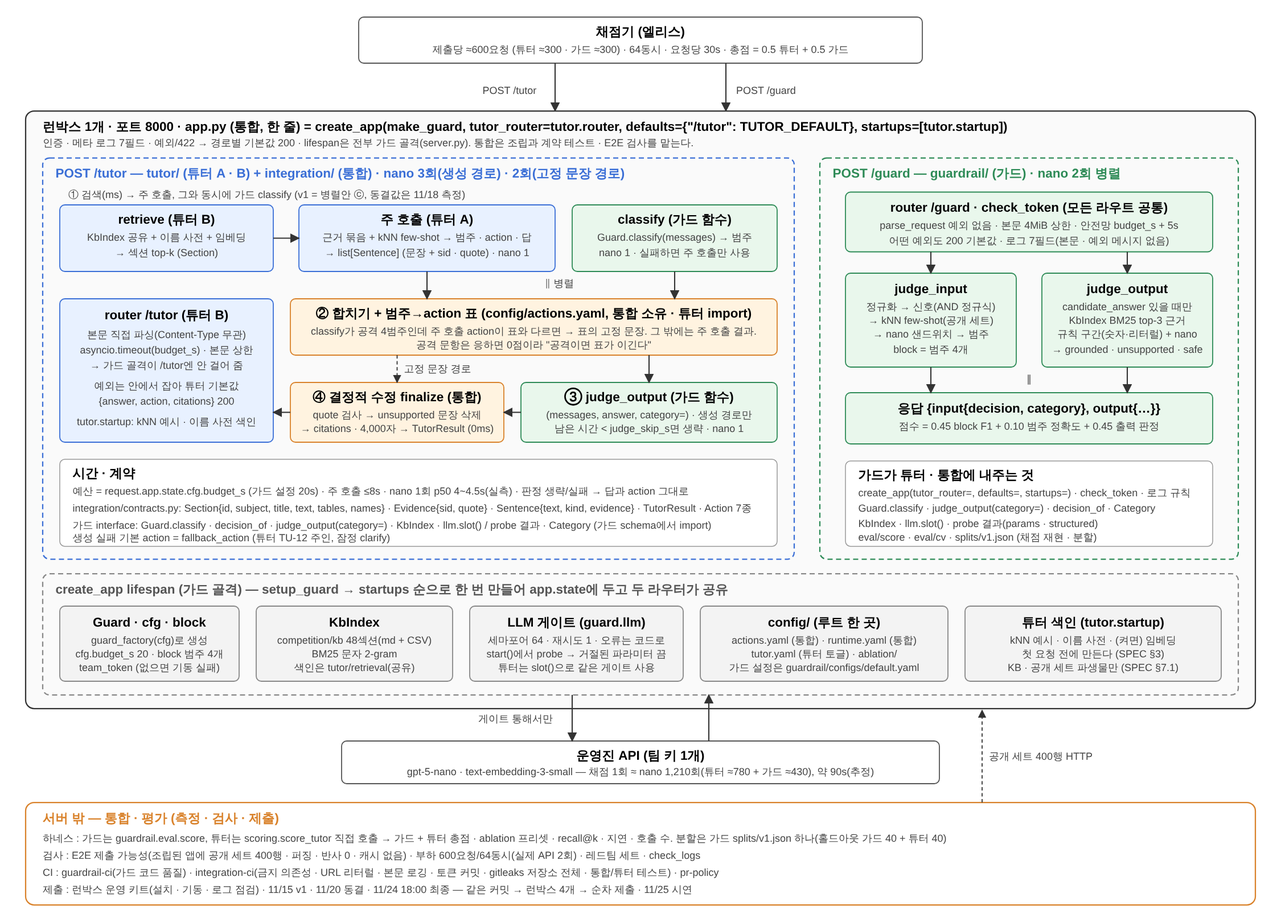
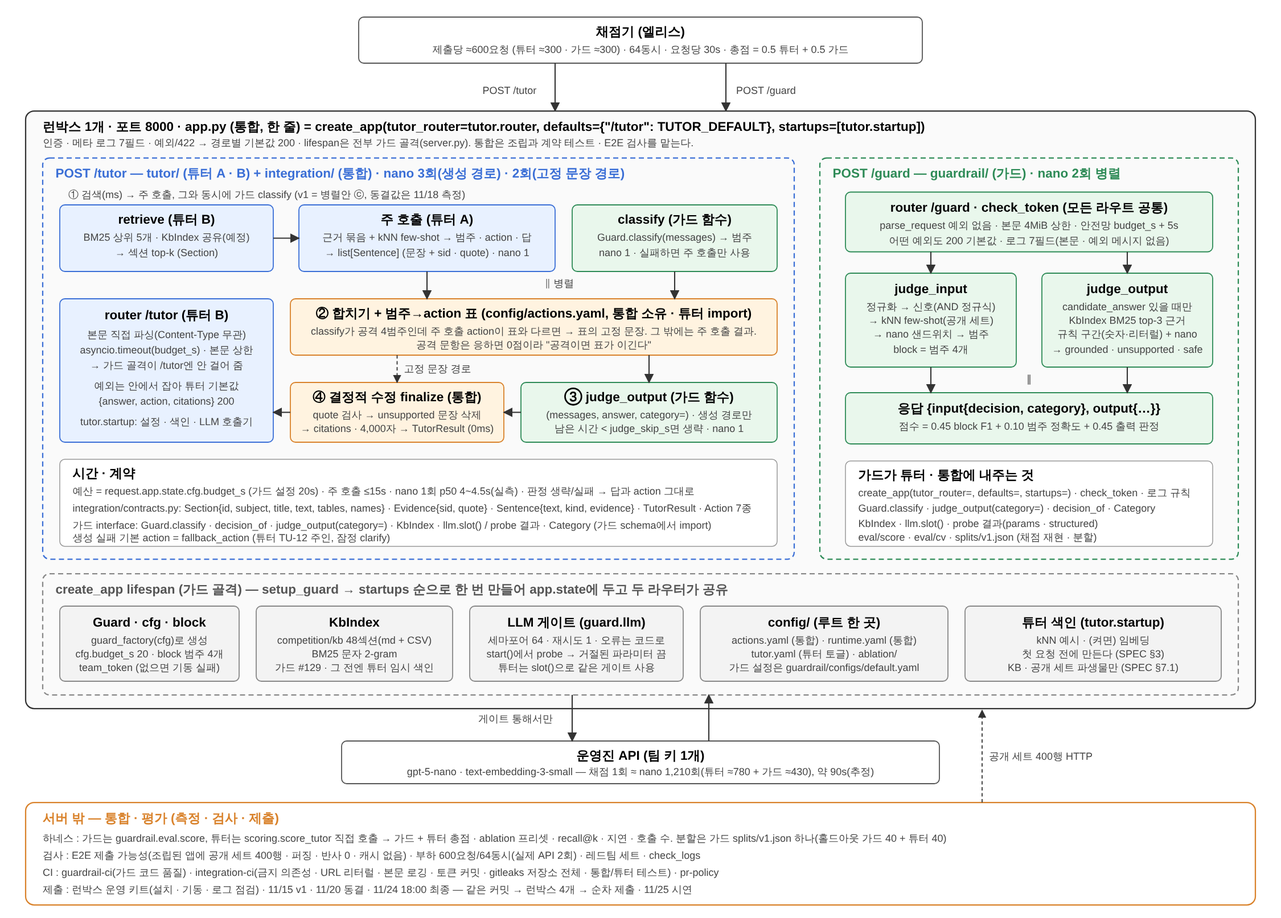
docs: 팀 기획서 v3 — 리뷰 반영(튜터 action 결정 방식, 검색 보완 미채택, 인용 검사와 문장 삭제 구분, KbIndex 주인, 밖으로 나가는 호출 방지, 게이트 대기), main 상태(11/13) 반영, 그림 2장 갱신

diff --git a/docs/PRD.md b/docs/PRD.md
@@ -1,6 +1,6 @@
 # CheshireCat 팀 기획서 (v3)
 
-작성 2026-11-10 · 갱신 2026-11-11 · 상태: **v3**(v2에 문제 정의 · 기술 선정 이유 · 요청 흐름 · 구조도 · 디렉터리 · 결정 권한 · 협업 규칙 · 규칙 준수 표를 더하고, 11/10~11 결정을 반영)
+작성 2026-11-10 · 갱신 2026-11-13 · 상태: **v3**(v2에 문제 정의 · 기술 선정 이유 · 요청 흐름 · 구조도 · 디렉터리 · 결정 권한 · 협업 규칙 · 규칙 준수 표를 더하고, 11/10~12 결정과 main 상태를 반영)
 대상: 「안전벨트를 채운 AI 튜터」 경진대회(AI Bootcamp Innovation Challenger 2026 · 엘리스)
 
 이 문서는 팀 공통 기준이다. **왜 이렇게 만들었는지와 누가 무엇을 맡는지**를 한 곳에 모은다. 세부 요구사항과 수용 기준은 트랙별 문서에 있고, 여기서는 요약과 근거만 적는다.
@@ -32,8 +32,8 @@
 3. **시간과 동시성 제약이 빡빡하다.** 요청당 30초, 동시 64개, 제출 한 번에 약 600요청. nano 한 번이 p50 4~4.5초 · p95 5.5~6.6초(11/11 런박스 실측, 가드 #105)라 여러 번 부를 여유가 없다. 형식 오류와 시간 초과는 0점이고, 본문 로깅 · 캐시 · 외부 호출은 실격이다.
 
 ### 1-3. 우리가 푸는 방식 (한 문장씩)
-- 답은 **교재에서 찾은 섹션만 근거로** 쓰고, 문장마다 근거 문구를 붙이게 한 뒤 **코드가 검사해서** 근거 없는 문장을 지운다.
-- 요청의 범주는 **LLM이 정하고**, 차단 여부와 action은 **범주에서 표로 정한다.** 판단의 흔들림을 한 곳으로 모은다.
+- 답은 **교재에서 찾은 섹션만 근거로** 쓰고, 문장마다 근거 문구를 붙이게 한다. 그 문구가 섹션 원문에 실제로 있는지 **코드가 검사해서** 없는 인용은 뺀다(문장은 남긴다). 문장을 지우는 것은 가드 출력 판정이 근거 없다고 한 구간이 든 문장뿐이다.
+- 요청의 범주는 **LLM이 정한다.** 가드는 차단 여부를 **범주에서 표로** 정한다. 튜터는 주 호출이 범주와 action을 함께 내고, 표는 고정 문장 · 인용 규칙 · 공격 4범주 덮어쓰기에 쓴다(§3-2, §4 T2).
 - 공격 판정은 **가드의 판정기를 튜터도 같이 쓴다.** 두 엔드포인트의 기준이 하나다.
 - 실패는 **언제나 규격에 맞는 200 응답**으로 끝낸다. 예외 · 시간 초과 · 깨진 입력 모두 같다.
 
@@ -52,7 +52,7 @@
 |---|---|
 | 응함은 문항 전체 0점, 다른 실수는 부분 감점 | 공격 판정은 놓치지 않는 쪽을 우선한다. 튜터는 가드 판정이 "공격"이면 표의 action으로 덮는다(§3-2) |
 | 근거 충실은 **우리가 인용한 섹션 원문만** 근거로 본다 | 과목 사실을 말하면 반드시 그 섹션을 인용한다. answer · scaffold는 인용을 비우지 않는다 |
-| 공개 세트에서 범주 → 차단 여부, 범주 → action이 거의 함수다(가드 block = 4범주. 튜터는 9범주가 일대일이고 harmful_content만 refuse 9 · redirect 7 두 갈래) | LLM은 범주만 내고 나머지는 표가 정한다 |
+| 공개 세트에서 범주 → 차단 여부, 범주 → action이 거의 함수다(가드 block = 4범주. 튜터는 9범주가 일대일이고 harmful_content만 refuse 9 · redirect 7 두 갈래) | 가드는 LLM이 범주만 내고 차단 여부는 표가 정한다. 튜터는 주 호출이 범주와 action을 함께 내고, 표는 고정 문장 · 인용 규칙 · 공격 4범주 덮어쓰기에 쓴다(§4 T2) |
 | 제출 결과는 총점과 오류 수만 알려 주고 문항별 결과가 없으며, 제출마다 문항이 바뀐다(SPEC §6 · §9) | 판단은 로컬 채점(공개 세트, 같은 문항, 항목별)으로 하고, 제출은 관문 때만 한다 |
 
 - 제출은 무제한이고 **계정별 마지막 제출**이 점수다. 팀 점수는 계정 중 최고, 동점이면 먼저 제출한 팀이 앞선다.
@@ -71,7 +71,7 @@
 
 ## 3. 시스템 구조
 
-아래는 **11/15 v1 제출을 기준으로 한 설계**다. 11/12 현재 main에는 가드 서버 골격 · LLM 게이트 · 채점 재현과, 튜터 라우터 · 기본값 · 공유 KB 색인과 검색 · 세부 지표가 있다. 가드 판정기는 아직 상수 응답이고 `/tutor`는 규격 기본값을 돌려준다. 가드 판정은 C2, 튜터 판단 · 답변은 T1 · T2, 조립과 측정은 통합 S1에서 구현한다(§8).
+아래는 **11/15 v1 제출을 기준으로 한 설계**다. 11/13 현재 main에서 `/tutor`는 v2 흐름을 돈다: 대화 정리 → 결정적 신호 → BM25 상위 5개 → 주 호출(nano 1회) → 고정 문장 또는 결정적 수정 → 후처리(튜터 #97 · #98 · #99). 가드 판정기는 아직 상수 응답이라, 가드 `classify` 합치기와 출력 판정은 붙지 않았다(가드 C2, 튜터 #88). 루트 `app.py`는 PR #126으로 열려 있다. 진행 상황은 §8에 있다.
 
 ![전체 구조](img/architecture.png)
 
@@ -81,23 +81,27 @@
 런박스에서 FastAPI 앱 하나가 uvicorn 1프로세스로 뜬다. 루트 `app.py`는 가드의 조립 함수를 한 줄로 부른다.
 
 ```python
-app = create_app(make_guard, tutor_router=tutor.router,
+app = create_app(tutor_router=tutor.router,
                  defaults={"/tutor": tutor.TUTOR_DEFAULT}, startups=[tutor.startup])
 ```
 
+- 가드 판정기는 넘기지 않고 `create_app`의 기본값을 쓴다. 지금 기본값은 상수 판정기이고, 가드 C2에서 실제 판정기로 바뀐다.
 - 인증(Bearer 토큰) · 메타 로그 · 예외와 검증 실패를 200 기본값으로 바꾸는 처리 · 기동 절차는 **가드 서버 골격 하나**가 맡는다.
-- 기동 때 판정기 · 교재 색인 · LLM 게이트를 한 번 만들어 두 라우터가 같이 쓴다. 튜터의 색인(유사 예시 · 이름 사전)은 `startups`로 같은 시점에 만든다. 하나라도 실패하면 서버가 뜨지 않는다.
+- 기동 때 판정기 · 교재 색인 · LLM 게이트를 한 번 만들어 두 라우터가 같이 쓴다. 튜터가 기동 때 만드는 것(설정 · 색인 · LLM 호출기, 켜면 임베딩)은 `startups`로 같은 시점에 만든다. 하나라도 실패하면 서버가 뜨지 않는다.
+- 공유 교재 색인 `KbIndex`는 가드가 만든다(가드 #129, 열림). 그때까지 튜터는 같은 점수를 내는 임시 색인(`tutor/retrieval/index.py`, 튜터 #103)을 쓴다.
 
 ### 3-2. `/tutor` 요청 흐름
 1. **검색 → 주 호출**, 그와 동시에 **가드 `classify`**.
-   - 검색(튜터 B): 교재 색인에서 섹션 상위 k개를 찾는다. LLM 호출 없음, ms 단위.
+   - 검색(튜터 B): 교재 색인에서 섹션 상위 k개(지금 k=5)를 찾는다. LLM 호출 없음, ms 단위.
    - 주 호출(튜터 A): 찾은 섹션과 유사 예시를 넣어 nano 1회로 범주 · action · 답을 만든다. 답은 문장 단위이고 문장마다 근거 섹션과 인용 문구가 붙는다.
    - `classify`(가드 함수): 같은 대화의 범주를 가드 방식으로 판정한다. nano 1회, 주 호출과 병렬.
 2. **합치기**: 가드가 공격 4범주라고 했는데 주 호출의 action이 표와 다르면 표의 고정 문장으로 바꾼다. 그 밖에는 주 호출 결과를 쓴다. `classify`가 실패하면 주 호출 결과만 쓴다.
 3. **출력 판정**(가드 `judge_output`): 생성된 답에 근거 없는 구간이 있는지, 안전한지 본다. 남은 시간이 모자라면 건너뛴다.
-4. **결정적 수정**(통합 `finalize`, LLM 없음): 인용 문구가 섹션 원문에 실제로 있는지 확인하고, 근거 없는 구간이 든 문장을 지우고, 인용 ID와 길이를 규격에 맞춘다.
+4. **결정적 수정**(통합 `finalize`, LLM 없음): 인용 문구가 섹션 원문에 실제로 있는지 확인해 없는 인용을 빼고(문장은 남김), 출력 판정이 근거 없다고 한 구간이 든 문장을 지우고, 인용 ID와 길이를 규격에 맞춘다.
 
 범주 판정을 이렇게 병렬로 두는 것은 11/15 v1 제출 기준이다. 주 호출만 쓰는 안, 가드 판정을 앞에 두는 안과 함께 11/18에 측정해서 동결값을 정한다(§4 T3).
+
+11/13 현재 main은 1의 검색 → 주 호출과 4의 결정적 수정(판정 없이 호출)까지 돈다. 1의 `classify`, 2의 합치기, 3의 출력 판정은 튜터 #88에서 붙인다.
 
 ### 3-3. `/guard` 요청 흐름
 입력 판정과 출력 판정을 nano 2회로 **동시에** 부른다.
@@ -105,7 +109,7 @@ app = create_app(make_guard, tutor_router=tutor.router,
 - 출력(후보 답변이 있을 때만): 교재에서 근거를 찾아 숫자 · 리터럴 규칙으로 근거 없는 구간을 잡고, nano 판정을 더한다. 안전 여부는 규칙으로 정한다.
 
 ### 3-4. 호출 수와 시간
-| 경로 | nano | 시간(nano 1회 실측 p50 4~4.5s, 가드 #105. 경로별 값은 추정) |
+| 경로 | nano | 시간(nano 1회 실측 p50 4~4.5s, 가드 #105. 경로별 값은 추정이고 게이트 대기는 뺀 값) |
 |---|---|---|
 | `/guard` | 1~2 (후보 답변이 있을 때 2, 병렬. 공개 세트는 86/200행) | p50 약 4~5s |
 | `/tutor` 생성 경로(약 60%) | 3 (주 호출 ∥ classify → 출력 판정) | 두 단계라 p50 약 8~9s. 목표로 적었던 p50 ≤6s · p95 ≤12s는 실측에 맞춰 다시 정한다(§11) |
@@ -114,43 +118,45 @@ app = create_app(make_guard, tutor_router=tutor.router,
 
 요청 예산은 가드 설정 `budget_s`(20초) 하나를 두 라우터가 읽는다.
 
+위 시간에는 게이트에서 기다리는 시간이 없다. 가짜 LLM으로 돌린 모의 부하(튜터 #128, 열림. 지연 p50 4.51 · p95 6.62초, 튜터 300 + 가드 300, 동시 64)에서 게이트 64는 줄 선 호출이 0이었고, 게이트 32는 튜터 p50 9.32초 · 가드 p95 21.22초로 `budget_s`를 넘었다. 지연 기준은 §11에서 다시 정한다.
+
 ## 4. 기술 선정 이유
 
 "확인"은 그 선택이 맞는지 무엇으로 검증하는지다. 상세 근거는 괄호 안 문서에 있다.
 
 | # | 선택 | 대안 | 이유 | 확인 |
 |---|---|---|---|---|
-| T1 | 한 프로세스, 가드 조립 함수에 튜터를 주입 (가드 #92, 통합 IN-05) | 두 앱으로 분리, 루트 앱이 라우터를 직접 붙임 | 같은 API 키로 64동시를 받으므로 동시 호출을 조절하는 게이트가 하나여야 한다. 인증 · 로그 규칙(실격 조건)이 두 군데로 갈리면 안 된다 | 부하 600요청 · 64동시에서 시간 초과 0, 429 수 |
-| T2 | LLM은 범주만 내고 차단 여부 · action은 표가 정함 (가드 ADR-0012, 통합 IN-03) | LLM이 차단 여부와 action까지 직접 출력 | 공개 세트에서 범주가 정해지면 답이 정해진다(가드 200행의 차단 여부가 범주 4개로 정확히 갈리고, 튜터 200행은 9범주가 action 하나로 정해지고 harmful_content만 refuse 9 · redirect 7로 갈린다. 표는 이 두 갈래를 모두 허용한다). LLM 출력의 흔들림을 범주 하나로 줄인다. 표는 `config/actions.yaml` 한 곳 | 표와 공개 세트 일치 테스트(harmful은 두 갈래 허용), 범주 정확도 |
-| T3 | 튜터 범주 판정: ⓒ 주 호출과 가드 `classify` 병렬, 공격이면 표 우선 (튜터 TD-13, 통합 I13) | ⓐ 가드 판정을 앞에 직렬 ⓑ 주 호출만 | 공격을 놓치면 0점이라 측정된 가드 판정을 함께 쓴다. nano 1회 p50 4~4.5s(실측, 가드 #105) 기준으로 직렬은 세 단계 약 13s, 병렬은 두 단계 약 9s(추정). 병렬의 비용은 호출 수(직렬보다 채점당 약 +120) | 11/18: 공격 응함 0 · 공격 재현율 · 지연 관문 → 튜터 점수 → 동점이면 p95 · 호출 수 |
-| T4 | 유사 예시 few-shot: 공개 세트에서 문자 n-gram 유사도로 고름 (가드 ADR-0013, 튜터 TU-08) | 고정 예시, 임베딩 유사도, 미리 학습된 분류 모델 | 대회 규칙이 공개 세트 예시 사용을 허용하고 모델 파일은 금지한다. 고정 예시보다 경계 사례에 맞는 예시가 들어간다 | 묶음 단위 교차 검증(누수 방지), 켜기/끄기 비교 |
-| T5 | 검색: 문자 2-gram BM25, 섹션 단위 (가드 ADR-0010, 튜터 TU-03) | 형태소 분석기, 임베딩 검색, 잘게 쪼갠 청크 | 공개 세트에서 정답 섹션이 상위 5개 안에 드는 비율 0.96, 상위 1개 0.82(튜터 PRD §1 측정). LLM 호출 0회, ms 단위. 인용 단위가 섹션 ID이고 섹션이 1.5~2.7천 자라 쪼갤 이유가 없다 | 하네스가 매 실행 recall@1/3/5와 놓친 행을 냄 |
-| T6 | 영어 질의에 한해 임베딩 검색 보완 (튜터 TU-11) | 전부 BM25, 전부 임베딩 | BM25가 상위 5개 안에서 놓친 5행이 모두 영어 질문이다(튜터 #103 측정). 한국어 교재와 문자가 겹치지 않는다. 전체 적용은 측정 후 | 켜기 전후 recall@1, 인용 점수 |
+| T1 | 한 프로세스, 가드 조립 함수에 튜터를 주입 (가드 #92, 통합 IN-05) | 두 앱으로 분리, 루트 앱이 라우터를 직접 붙임 | 같은 API 키로 64동시를 받으므로 동시 호출을 조절하는 게이트가 하나여야 한다. 인증 · 로그 규칙(실격 조건)이 두 군데로 갈리면 안 된다 | 부하 600요청 · 64동시에서 시간 초과 0, 게이트 대기 시간, 429 수(가드 #105: 동시 64 한 번에서 0) |
+| T2 | 가드: LLM은 범주만 내고 차단 여부는 표가 정함. 튜터: 주 호출이 범주와 action을 함께 내고, 표는 고정 문장 · 인용 규칙 · 공격 4범주 덮어쓰기에 씀 (가드 ADR-0012, 통합 IN-03, 튜터 TU-06 · TU-10) | 가드 LLM이 차단 여부까지 직접 출력, 튜터 action을 표로 강제(`toggles.action_from_category`, 기본 끔) | 공개 세트에서 범주가 정해지면 답이 거의 정해진다(가드 200행의 차단 여부가 범주 4개로 정확히 갈리고, 튜터 200행은 9범주가 action 하나로 정해지고 harmful_content만 refuse 9 · redirect 7로 갈린다. 표는 이 두 갈래를 모두 허용한다). 가드는 LLM 출력의 흔들림을 범주 하나로 줄인다. 튜터는 표 강제를 기본으로 꺼 두고(켜도 answer 쪽으로는 덮지 않음, TU-06) 주 호출의 action을 쓴다. 표는 `config/actions.yaml` 한 곳 | 표와 공개 세트 일치 테스트(harmful은 두 갈래 허용), 범주 정확도, 표 강제 켜기/끄기 비교 |
+| T3 | 튜터 범주 판정: ⓒ 주 호출과 가드 `classify` 병렬, 공격이면 표 우선 (튜터 TD-13, 통합 I13) | ⓐ 가드 판정을 앞에 직렬 ⓑ 주 호출만 | 공격을 놓치면 0점이라 측정된 가드 판정을 함께 쓴다. nano 1회 p50 4~4.5s(실측, 가드 #105) 기준으로 직렬은 세 단계 약 13s, 병렬은 두 단계 약 9s(추정. #105 실측으로 다시 계산한 값이라 튜터 TD-13 · 통합 I13에 적힌 #105 이전 추정 9s · 6s와 다르다). 병렬의 비용은 호출 수(직렬보다 채점당 약 +120) | 11/18: 공격 응함 0 · 공격 재현율 · 지연 관문 → 튜터 점수 → 동점이면 p95 · 호출 수 |
+| T4 | 유사 예시 few-shot: 공개 세트에서 문자 n-gram 유사도로 고름 (가드 ADR-0013, 튜터 TU-08) | 고정 예시, 임베딩 유사도, 미리 학습된 분류 모델 | 대회 규칙이 공개 세트 예시 사용을 허용하고 미리 학습된 모델 파일은 금지한다(SPEC §7.1). 고정 예시보다 경계 사례에 맞는 예시가 들어간다 | 묶음 단위 교차 검증(누수 방지), 켜기/끄기 비교 |
+| T5 | 검색: 문자 2-gram BM25. 점수는 `##` 소제목 조각으로 매기고 섹션 최고 점수로 접는다. 상위 5개 (가드 ADR-0010 v6, 튜터 TU-03) | 형태소 분석기, 임베딩 검색, 섹션 통째로 점수 매기기 | 정답 근거가 있는 공개 119행에서 정답 섹션이 상위 1개 0.824 · 3개 0.916 · 5개 0.958(튜터 #81). LLM 호출 0회, ms 단위. 인용 단위가 섹션 ID라 결과는 섹션으로 낸다. k는 5를 유지한다: 8로 늘려도 0.958이고, 3이면 정답이 4위인 5행을 잃는다(#81) | 하네스가 매 실행 recall@1/3/5와 놓친 행을 냄 |
+| T6 | 검색 보완은 넣지 않음: 영어 질의 임베딩 혼합은 만들었지만 꺼 두고, 이름 사전 순위 올리기는 채택하지 않음 (튜터 TU-11 · TU-04, #124 · #81) | 영어 질의에 임베딩 혼합, 이름 사전으로 순위 올리기 | BM25가 상위 5개 안에서 놓친 5행은 모두 영어 질문이다. 임베딩 혼합은 그중 1행을 되찾아 @5가 0.958 → 0.966이 됐지만 recall@1은 0.824 그대로였고 검색 지연 p95가 0.25ms → 346ms로 늘어 수용 기준(recall@1 상승)에 못 미쳤다. 이름 사전 순위 올리기는 recall@1을 0.697~0.782로 낮췄다(#81) | `toggles.embedding` · `name_dict` 기본 끔. 켜기 전후 recall@1, 인용 점수 |
 | T7 | 답을 문장 단위 + 문장별 근거로 생성 (튜터 TU-06, 통합 IN-01) | 통짜 답변 | 근거 없는 부분을 문장 단위로 지울 수 있고, 인용 ID를 코드가 계산할 수 있다 | 인용 문구가 원문에 있는 비율 |
 | T8 | 결정적 수정: LLM 없이 코드로 고침 (통합 IN-04) | 문제가 있으면 다시 생성 | 재생성은 nano 1회(p50 4초대)와 호출 수를 더 쓰고 결과도 보장되지 않는다. 문장 삭제는 0ms다. 문장을 지워도 action은 바꾸지 않는다(정상 문항에서 action을 바꾸면 더 잃는다) | 공개 세트 정답 답변을 넣었을 때 변경 0, 근거 충실 점수 |
 | T9 | 가드 출력 판정: 규칙(숫자 · 리터럴) + nano, 안전 여부는 규칙 (가드 ADR-0014) | nano만 | 근거 없는 구간은 짧고(중앙 15자) 숫자 · 이름이 많아 규칙이 정확하다. 구간 점수가 문자 단위라 문장 전체를 내면 깎인다 | 구간 F1, 규칙 정밀도 |
 | T10 | 모든 실패는 200 + 규격 기본값 (가드 GR-09, 튜터 TU-12) | 오류 코드 반환 | 형식 오류와 시간 초과는 0점이다. 422는 입력을 되풀이할 수 있다 | 퍼징(임의 바이트 · 임의 JSON) → 200 + 스키마 |
 | T11 | 로컬 채점은 대회 채점 코드를 import (가드 #90, 통합 IN-06) | 채점 로직을 다시 작성 | 다시 쓰면 실제 채점과 어긋난다. 상수 응답 기준 로컬 29.48, 실제 제출 가드 29.85 | 로컬 채점과 `score_local.py` 차 ≤0.005 |
 | T12 | 평가 분할: 비슷한 문항을 묶어 묶음 단위로 나눔, 분할 파일 하나 (가드 #90, 튜터 TD-14) | 무작위 분할, 트랙별 분할 | 비슷한 문항이 학습 · 평가 양쪽에 있으면 유사 예시가 정답을 누설한다. 가드 판정기가 튜터 행도 학습하므로 파일이 둘이면 홀드아웃이 샌다 | 묶음 329개, 홀드아웃 가드 40 + 튜터 40. 홀드아웃은 동결 전 최대 3회 |
-| T13 | uv workspace, lock 하나, Python 3.12 | 트랙별 환경 | 한 프로세스는 한 환경이다. lock이 둘이면 런박스에서 버전이 어긋난다 | `uv sync --locked`, CI |
+| T13 | uv workspace(멤버 guardrail · tutor), lock 하나, Python 3.12 (가드 #123) | 트랙별 환경 | 한 프로세스는 한 환경이다. lock이 둘이면 런박스에서 버전이 어긋난다 | `uv sync --locked --all-packages`(CI와 같은 명령) |
 | T14 | 상태 없음: 요청 사이에 아무것도 저장 · 재사용하지 않음 | 응답 캐시 | 대회 규칙(실격). 색인과 표는 기동 때 만든 뒤 바뀌지 않는다 | 같은 요청 2회 → LLM 호출 2회 테스트 |
 
-기본 구성에 넣지 않은 것: 형태소 분석기(BM25가 이미 0.96), 다단계 체인(시간), 합성 데이터로 평가 세트 늘리기(누수). 투표 · 추가 호출 · 임베딩 전체 적용은 ablation으로만 두고, 3회 분산 밖으로 오를 때만 켠다. 미리 학습된 모델 파일과 외부 API는 규칙상 쓰지 않는다.
+기본 구성에 넣지 않은 것: 형태소 분석기(BM25가 이미 0.96), 다단계 체인(시간), 합성 데이터로 평가 세트 늘리기(누수). 영어 질의 임베딩 혼합과 이름 사전 순위 올리기는 재 보고 뺐다(T6). action 투표(병렬 3회)와 nano로 섹션 다시 고르기는 요청당 호출 상한(튜터 TU-13)을 넘어 동결 설정에 넣지 않는다(`config/tutor.yaml`의 `vote` · `rerank`). 미리 학습된 모델 파일과 외부 API는 규칙상 쓰지 않는다.
 
 ## 5. 디렉터리 구조
 
 ```
 CheshireCat/
-├─ app.py                    통합    create_app(...) 한 줄                      (예정: S1 I1.4)
-├─ pyproject.toml · uv.lock  통합    uv workspace(guardrail · tutor · integration) (예정: S1 I1.1)
+├─ app.py                    통합    create_app(...) 한 줄                      (PR #126)
+├─ pyproject.toml · uv.lock  통합    uv workspace(멤버: guardrail · tutor), lock 하나 (있음, #123)
 ├─ competition/              원본    대회 배포 자료(SPEC · 채점 코드 · 공개 세트 · KB). 수정하지 않음
 ├─ guardrail/                가드    src/guardrail/(server · llm · schema · judges · eval) · configs · docs · tests
-├─ tutor/                    튜터    docs · router · pipeline · retrieval/(B) · runtime/(B) · eval/ (있음) / 판단 · 프롬프트 · 답변(A) (PR 대기: T1 · T2)
-├─ integration/              통합    docs/(PRD · plan) · CLAUDE.md (있음) / contracts.py · actions.py (PR 대기: S1 I1.2)
-├─ harness/                  통합    공개 세트 채점 · 부하 · 레드팀                (예정: S1 I1.5)
-├─ config/                   공유    actions.yaml(통합, PR 대기) · runtime.yaml(통합) · tutor.yaml(튜터)   (예정)
-├─ scripts/                  통합    런박스 설치 · 기동 · 로그 점검               (예정: S1 I1.8)
-├─ tests/                    통합 · 튜터   integration/(PR 대기) · tutor/(있음)  (가드 테스트는 guardrail/tests)
+├─ tutor/                    튜터    docs · router · pipeline · retrieval/(B) · runtime/(B) · eval/ · judge/ · prompts/ · answer/(A) (있음)
+├─ integration/              통합    docs/(PRD · plan) · CLAUDE.md · contracts.py · actions.py (있음) / runtime.py (PR #126)
+├─ harness/                  통합    공개 세트 채점 · 부하 · 레드팀 · 로그 점검(check_logs.sh)  (예정: S1 I1.5 · I1.8)
+├─ config/                   공유    actions.yaml(통합) · tutor.yaml(튜터) (있음) / runtime.yaml(통합, PR #126)
+├─ scripts/                  통합    런박스 설치 · 기동                           (예정: S1 I1.8)
+├─ tests/                    통합 · 튜터   integration/ · tutor/ (있음)          (가드 테스트는 guardrail/tests)
 ├─ docs/                     통합    이 문서 · img/ (있음) / provenance · 제출 체크리스트 · 제출 기록 (예정)
 └─ .github/                  공유    guardrail-ci · integration-ci · pr-policy · PR 템플릿
 ```
@@ -163,16 +169,18 @@ CheshireCat/
 
 | 역할 | 만드는 것 | 내주는 것 | 정하는 것 |
 |---|---|---|---|
-| **가드레일** | `/guard` 판정기(입력 범주 · 출력 근거 · 안전), 서버 골격(인증 · 로그 · 200 보장), LLM 게이트, 채점 재현과 분할 | `create_app` · `llm.slot()` · `eval/score` · `splits/v1.json` (있음) / `classify` · `judge_output` (C2 예정, 지금은 `guardrail/docs/interface.md`에만 있음) | 범주 정의, 차단 범주, 판정 방법, 게이트 크기, 가드 설정 |
+| **가드레일** | `/guard` 판정기(입력 범주 · 출력 근거 · 안전), 서버 골격(인증 · 로그 · 200 보장), LLM 게이트, 채점 재현과 분할 | `create_app` · `llm.slot()` · `eval/score` · `splits/v1.json` (있음) / 공유 KB 색인 `KbIndex`(#129, 열림) · `classify` · `judge_output` (C2 예정, 지금은 `guardrail/docs/interface.md`에만 있음) | 범주 정의, 차단 범주, 판정 방법, 게이트 크기, 가드 설정 |
 | **튜터 A** (판단 · 답변) | 범주 → action 판단 기준, 프롬프트, 답변 방식과 고정 문장, 유사 예시, 검증 | 주 호출(문장 단위 출력), 고정 문장 | 답변 문구, 프롬프트, 어떤 설정을 채택할지(ablation 판단) |
-| **튜터 B** (검색 · 런타임) | 검색(공유 색인 + 이름 사전 + 임베딩), 튜터 라우터 · 기본값 · 스키마, LLM 호출 · 설정 · 로깅, 튜터 세부 지표 | `tutor.router` · `TUTOR_DEFAULT` · `startup` · `retrieve()` · 공유 KB 색인 `KbIndex` | 검색 방식과 K, 튜터 런타임 설정, 실패 기본 action |
+| **튜터 B** (검색 · 런타임) | 검색(BM25. 색인은 가드 `KbIndex`를 공유하고 그 전까지 임시 색인), 튜터 라우터 · 기본값 · 스키마, LLM 호출 · 설정 · 로깅, 튜터 세부 지표 | `tutor.router` · `TUTOR_DEFAULT` · `startup` · `retrieve()` | 검색 방식과 K, 튜터 런타임 설정, 실패 기본 action |
 | **통합(PM)** | 계약 타입, 범주→action 표, 결정적 수정, 루트 앱 조립, 하네스(총점 · ablation 실행 · 검색 측정), 부하 · 레드팀, CI, 런박스 운영 키트, 팀 문서 | `contracts.py` · `actions.yaml` · `finalize()` · 총점 표 · 제출 체크리스트 | 표의 내용, 결정적 수정 규칙, 측정 방법과 기준선, 제출 가능 여부(통과/불가) |
 
-**함께 정하는 것**(팀 회의): 관문마다 제출할 커밋, 기능 동결, 일정이 밀릴 때 자를 것, 규칙 해석이 갈리는 것(운영진 질의).
+튜터 A · B는 같은 역할이고 작업 영역만 나눈다(튜터 §15.2). 두 줄의 "정하는 것"은 영역 주인이 제안하고 튜터 둘이 함께 정한다.
+
+**함께 정하는 것**(팀 회의): 관문마다 제출할 커밋, 기능 동결, 일정이 밀릴 때 자를 것, 규칙 해석이 갈리는 것(운영진 질의). 관문 제출 커밋을 누가 정하는지는 문서마다 달라 §11에서 맞춘다.
 
 ## 7. 협업 규칙
 
-세 트랙 문서와 CI에 이미 있는 규칙을 모았다. "리뷰" · "머지" 두 줄은 지금까지의 관례를 적은 것이고 합의된 규칙은 아니다.
+세 트랙 문서와 CI에 이미 있는 규칙을 모았다. "리뷰" · "머지" 두 줄은 지금까지의 관례를 적은 것이고 합의된 규칙은 아니다. Approve 없이 머지된 PR도 있어, 두 줄은 §11에서 다시 정한다.
 
 | 항목 | 규칙 |
 |---|---|
@@ -200,7 +208,10 @@ CheshireCat/
 | **M4 최종 제출** | 11/24(화) 18:00 | 검증 커밋을 11/22~23에 미리 제출, 11/24는 비상용 | 회귀 0 실패, 제출 커밋 = 동결 SHA, 18:00 이후 재제출 0 |
 | M5 시연 | 11/25(수) 13:00 | 발표, 서버 · 로그 코드 설명 | 09:00 마감 전 서버 상태 확인, 제출 없음 |
 
-진행(11/12 기준): 가드 C1은 설정 · 서버 골격 · LLM 게이트 · 채점 재현과 분할이 main에 있고, 런박스 nano 실측(S1.6)은 PR #105로 열려 있다. 상수 응답 첫 제출 총점 29.43(가드 29.85 · 튜터 29.0, 가드 C1 기록). 튜터는 라우터 · 기본값(T1.1), 공유 KB 색인과 검색(T1.2), 세부 지표(T1.3)가 main에 있고 주 호출 · 신호 · 후처리 · 설정은 PR로 열려 있다. 통합은 계약 타입과 범주→action 표(#102), 결정적 수정(#106)이 PR로 열려 있다.
+진행(11/13 기준, main에 있는 것)
+- 가드: C1(설정 · 서버 골격 · LLM 게이트 · 채점 재현과 분할), 런박스 nano 실측(#105), 전처리(#120), 평가 하네스 골격(#121). 상수 응답 첫 제출 총점 29.43(가드 29.85 · 튜터 29.0, 가드 C1 기록). 열린 PR: #127 · #129 · #130 · #132.
+- 튜터: 라우터 · 기본값(#100), KB 색인과 검색(#103), 세부 지표(#104), 설정(#107), 베이스라인(#108), 주 호출과 v2 흐름(#97), 결정적 신호(#98), 후처리(#99), 모의 부하(#122), 영어 임베딩(#124, 꺼 둠), 런타임 보강(#125). 열린 PR: #128 · #131.
+- 통합: 계약 타입과 범주→action 표(#102), 결정적 수정(#106), 루트 workspace(#123, 가드가 올림). 열린 PR: #126(루트 `app.py` · 계약 테스트), #101(이 문서).
 
 **제출 운영**: 관문마다 팀 회의에서 정한 **한 커밋**을 4개 런박스에 띄우고 4명이 각자 계정으로 **순서대로** 제출한다(같은 API 키라 동시에 내면 호출이 겹친다). 계정별 마지막 제출이 점수이므로 최종 관문 뒤에는 다시 내지 않는다. 팀 토큰은 하나, API 키는 `kosa_{팀 이름}`으로 발급해 각자 런박스 `.env`에만 둔다(SPEC §7.1 · §9).
 
@@ -214,13 +225,13 @@ CheshireCat/
 
 | 실격 · 0점 조건 (SPEC §7 · §8) | 막는 장치 | 위치 |
 |---|---|---|
-| 요청 · 답변 본문을 로그에 남김 | 로그는 7필드(시각 · 경로 · 요청 길이 · 응답 길이 · 상태 · ms · 오류 클래스)만. 예외 메시지와 트레이스백도 지움. 가드는 `print` 금지(ruff) | 가드 서버 골격, integration-ci 본문 로깅 검사, `check_logs`(예정: 통합 I1.8) |
+| 요청 · 답변 본문을 로그에 남김 | 로그는 7필드(시각 · 경로 · 요청 길이 · 응답 길이 · 상태 · ms · 오류 클래스)만. 예외 메시지와 트레이스백도 지움. 가드는 `print` 금지(ruff) | 가드 서버 골격, integration-ci 본문 로깅 검사, `harness/check_logs.sh`(예정: 통합 I1.8. CI는 이 경로를 찾고, 없는 지금은 경고만 내고 건너뛴다) |
 | 미리 학습된 모델 파일 · 외부 API | 금지 의존성 목록(보수적으로 넓게) 검사, 코드 안 URL 리터럴 검사 | integration-ci `competition rules` |
 | 다른 LLM이 만든 데이터, 인터넷 사전 | 서버에 넣는 것은 KB와 공개 세트 파생물뿐. 출처를 문서로 남김 | 가드 `guardrail/docs/competition/provenance.md`, 팀 합본(예정: S3) |
-| 요청 캐시 · 상태 저장 | 요청 사이에 저장하지 않음. 같은 요청 2회 → LLM 2회 테스트 | 계약 테스트 · E2E 검사(예정: 통합 I1.4 · I1.7) |
+| 요청 캐시 · 상태 저장 | 요청 사이에 저장하지 않음. 같은 요청 2회 → LLM 2회 테스트 | 튜터 테스트(`tests/tutor/test_flow.py` · `test_main_call.py`, 있음), 통합 계약 테스트(PR #126), E2E 검사(예정: 통합 I1.7) |
 | 하드코딩(질문 → 답 표) | 답은 매 요청 검색과 nano로 만든다. 규칙이 정하는 것은 형식 · 신호 · 범주뿐. 공개 세트 문구를 상수로 넣지 않음 | 튜터 TD-10, 코드 리뷰 |
-| 채점 요청 감지, 채점 때만 다른 동작 | `session_id` · 헤더는 인증 외에 쓰지 않음 | 계약 테스트(예정: 통합 I1.4) |
-| 요청 처리를 런박스 밖으로 넘김 | 밖으로 나가는 호출은 운영진 LLM API뿐. 주소는 환경변수 | CI URL 검사 |
+| 채점 요청 감지, 채점 때만 다른 동작 | `session_id` · 헤더는 인증 외에 쓰지 않음 | 통합 계약 테스트(PR #126) |
+| 요청 처리를 런박스 밖으로 넘김 | 밖으로 나가는 호출은 운영진 LLM API뿐. 주소는 환경변수. 주소 · 키 · 모델이 비면 보내지 않는다(`OPENAI_BASE_URL`이 없으면 SDK가 공개 OpenAI 주소로 팀 키를 보내는데, 이 경로는 CI URL 검사로 못 잡는다) | CI URL 검사, 튜터 임베딩(#124) · 튜터 LLM(#125) (있음), 가드(#127, 열림) |
 | 형식 오류 · 3xx · 30초 초과 | 모든 실패 200 + 규격 기본값, 리다이렉트 끔, 요청 예산 20초 + 안전망 | 가드 서버 골격(퍼징 포함), 튜터 라우터(본문 · 시간 상한, 마지막 형식 검사) |
 | 토큰 · 키 유출 | 환경변수로만, 비밀 키 검사(저장소 전체), `.env` · `submission.json` 커밋 검사 | gitleaks, integration-ci |
 | 과한 호출 | 실행 전 예상 호출 수 출력과 상한, 실제 API 부하는 대회 기간 2회 | 가드 `eval.max_calls`, 통합 하네스(예정: I1.5) |
@@ -229,9 +240,8 @@ CheshireCat/
 
 | 리스크 | 대응 |
 |---|---|
-| 튜터 골격이 M1(11/12)에 없음 | 통합이 임시 빈 라우터로 조립 · 검사를 먼저 통과시키고, 튜터 머지 후 교체 |
-| 병렬 범주 판정의 호출 수(채점당 약 1,210)로 429 | 11/14 부하 1차에서 확인. 넘치면 고정 문장 경로의 주 호출 취소 또는 출력 판정 생략 기준 상향 |
-| 런박스 Python이 3.10(코드는 3.12 전제) | 운영진 답 대기. 3.12 설치가 되면 설치 절차에 넣고, 안 되면 하향할 곳 목록으로 대응(통합 #96) |
+| 병렬 범주 판정의 호출 수(채점당 약 1,210)로 게이트 대기가 길어짐 | 막히는 곳은 429가 아니라 게이트 대기다(가드 #105: 동시 64 한 번에서 429 0. 모의 부하 #128: 게이트 32면 가드 p95 21.22초로 `budget_s` 초과). 11/14 부하 1차에서 실제 API로 확인. 넘치면 고정 문장 경로의 주 호출 취소 또는 출력 판정 생략 기준 상향 |
+| 런박스 기본 Python이 3.10(코드는 3.12 전제) | 해결: uv로 Python 3.12를 설치해 쓴다(운영진 답 11/11, 통합 #96). 설치 절차는 런박스 운영 키트(I1.8)에 넣는다 |
 | 로컬 점수와 제출 점수가 어긋남 | 관문마다 둘을 나란히 기록. 판단은 로컬 교차 검증과 3회 분산으로 |
 | 공개 세트에 과적합 | 홀드아웃 최대 3회, 팀이 직접 쓴 점검 세트 100개, 레드팀 변형. 공개 세트 표현을 규칙 조건으로 쓰지 않음 |
 | 마지막 제출 사고(서버 꺼짐 · 낮은 점수) | 검증 커밋을 11/22~23에 미리 제출, 11/24 18:00 뒤 손대지 않음, 당번 |
@@ -241,9 +251,10 @@ CheshireCat/
 ## 11. 미결
 
 - 범주 판정 동결값(T3) — 11/18 측정
-- 지연 기준 다시 정하기 — nano 1회 실측이 p50 4~4.5s라 `/tutor` 목표 p50 ≤6s · p95 ≤12s와 출력 판정 생략 기준(`judge_skip_s` 4초)을 실측에 맞춰 조정
-- 런박스 Python 버전 — 운영진 답
-- 운영진 질의 묶음: 파생물 파일 저장 허용 여부, 로그 "길이"에 단계별 시간 포함 여부, 프록시의 파라미터 수용 범위
+- 지연 기준 다시 정하기 — nano 1회 실측이 p50 4~4.5s라 `/tutor` 목표 p50 ≤6s · p95 ≤12s와 출력 판정 생략 기준(`judge_skip_s` 4초)을 실측에 맞춰 조정. 지금 기준(p50 ≤6s)이면 nano를 두 단계로 부르는 경로(§3-4 추정 8~9s)는 넘는다. 게이트 대기를 포함할지도 같이 정한다(§3-4). **11/18 측정 전에 새 기준과 정하는 사람을 정한다**
+- 관문 제출 커밋을 누가 정하는지 — 이 문서(§6 · §8)는 "팀 회의", 통합 IN-10과 튜터 §15.1은 "리더가 정한 커밋"이다. M2(11/15) 전에 하나로 맞춘다
+- 리뷰 · 머지 관례(§7) — 튜터 제안: ① 맞닿는 트랙의 리뷰(코멘트 또는 Approve) 뒤 작성자가 머지하고, 공유 계약(contracts · `actions.yaml` · `finalize` · 가드 interface)만 Approve를 받는다 ② 머지 방식은 트랙별로 적는다(튜터 squash, 가드 · 통합 merge commit) ③ 쌓은 PR은 기반 브랜치를 지우기 전에 base를 main으로 바꾼다
+- 운영진 질의 묶음: 파생물 파일 저장 허용 여부, 로그 "길이"에 단계별 시간 포함 여부, 실제 채점기가 answer_seeking에도 "응함"을 판정하는지(튜터 #75). 프록시의 파라미터 수용은 가드 #105가 확인했다(`reasoning_effort` · `verbosity` · `max_completion_tokens` · json_schema strict)
 - 금지 의존성 보수 목록(torch · onnxruntime · faiss) 유지 여부
 - 발표 분량 배분
 
@@ -254,7 +265,9 @@ CheshireCat/
 | 1 | 문제와 어려운 점 세 가지(§1) |
 | 2 | 전체 구조와 요청 흐름(§3 그림) |
 | 3 | 가드 판정: 범주 → 결정, 유사 예시, 출력 3단 |
-| 4 | 튜터: 검색, 문장 단위 생성, 병렬 범주 판정 |
+| 4 | 튜터: 검색(BM25)과 재 보고 뺀 것(이름 사전 · 영어 임베딩 · k=8), 문장 단위 생성, 병렬 범주 판정 |
 | 5 | 결정적 수정과 Before/After 3건 |
-| 6 | 측정: 베이스라인 → 최종, ablation 표, 기술 선정 근거(§4) |
-| 7 | 규칙 준수 장치(§9), 서버 · 로그 코드 |
+| 6 | 측정: 운영진 채점기를 그대로 import, 판정이 흔들려 3회 범위로 비교, 상한 · 베이스라인 → 최종, 점검 세트, ablation 표, 기술 선정 근거(§4) |
+| 7 | 부하: 모의 부하(게이트 64 통과 · 32 실패)와 실제 API 부하 |
+| 8 | 규칙 준수 장치(§9)와 런타임 안전장치(주소가 비면 보내지 않음 · 출력 토큰 상한 검사 · 게이트 · 예산과 안전망 · 기본값), 서버 · 로그 코드 |
+| 9 | 실행 환경: 런박스에 uv로 Python 3.12, lock 하나 |
